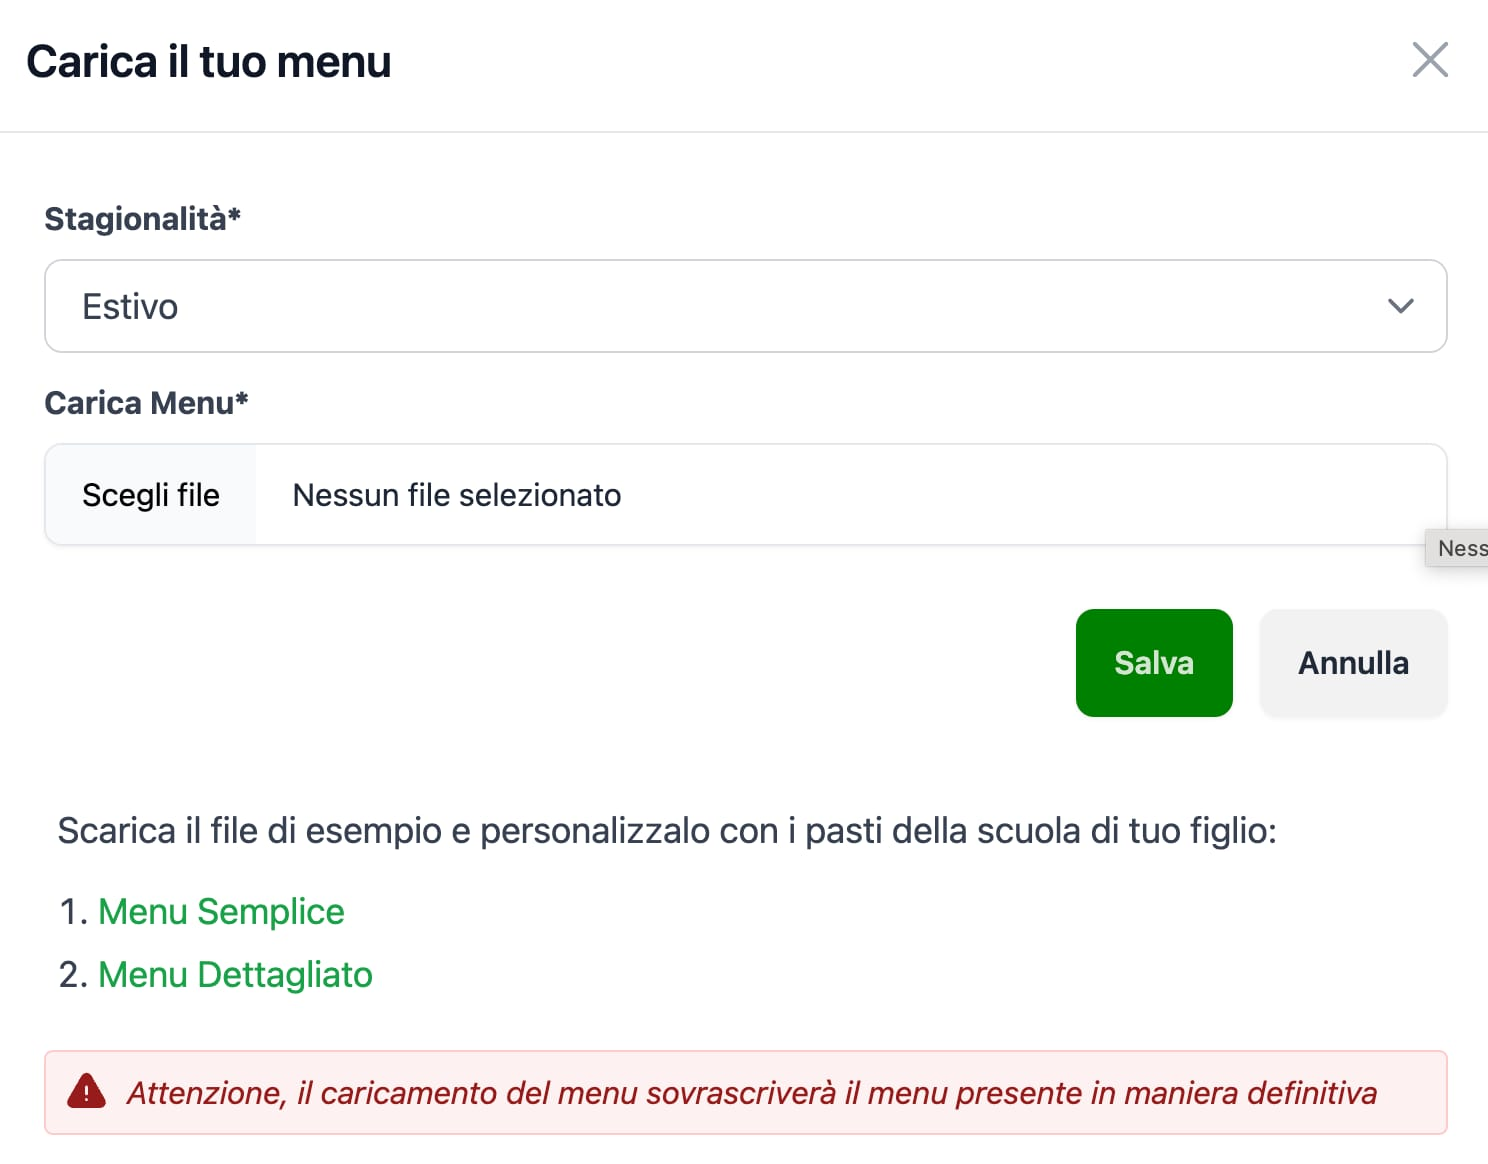
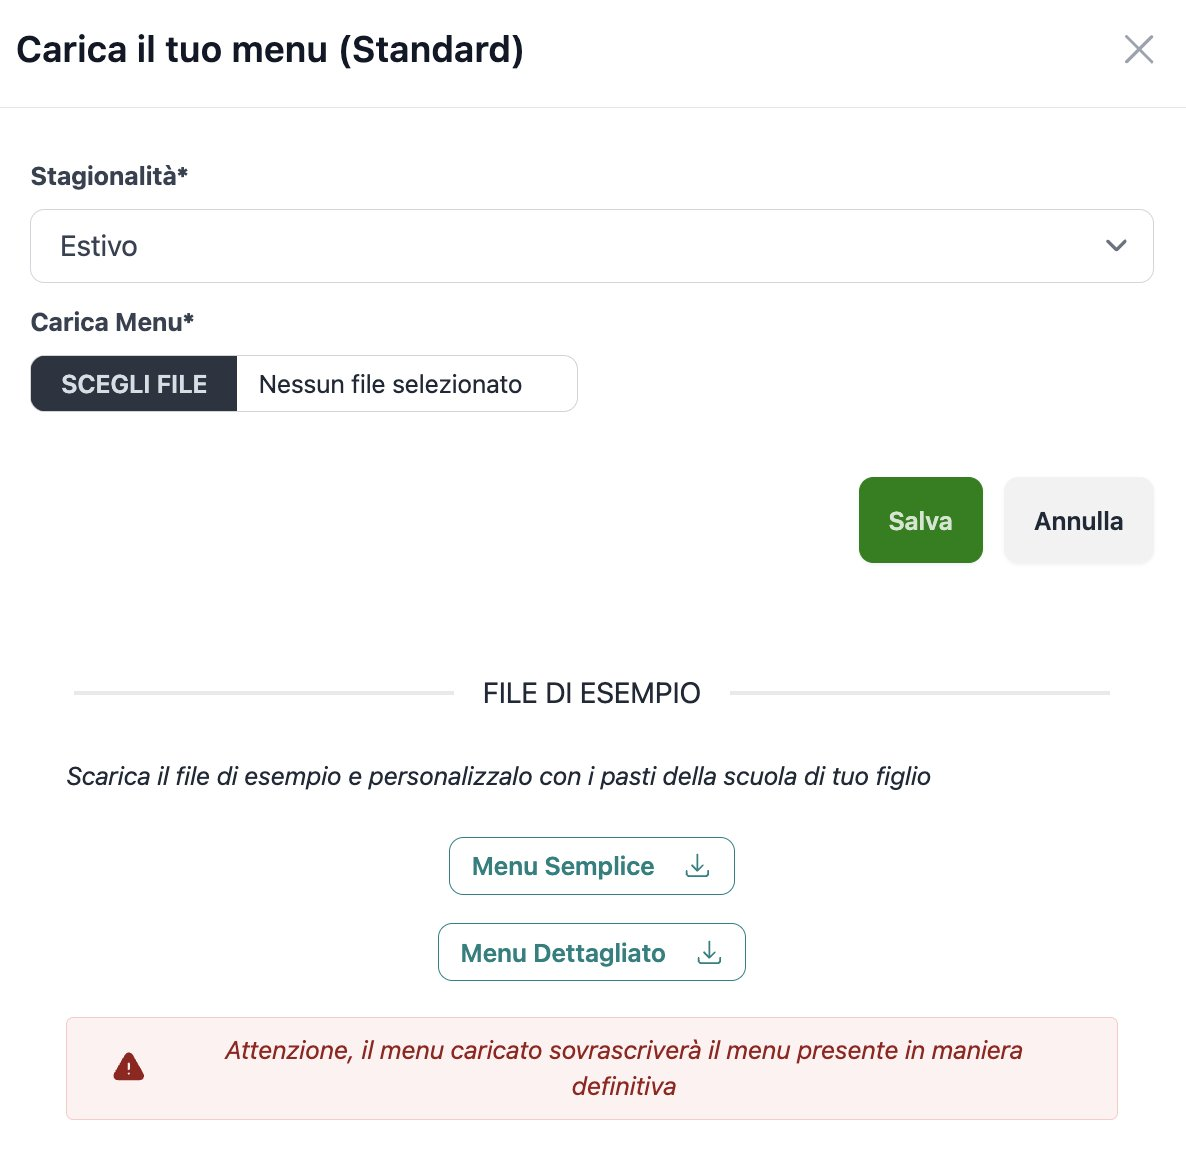
completed user_guide with images (for #110)

diff --git a/templates/pages/help.html b/templates/pages/help.html
@@ -6,28 +6,77 @@
 
 {% block content %}
     <section>
-        <div class="grid px-4 pt-8 pb-4 mx-auto max-w-screen-lg lg:gap-8 lg:pt-16 lg:pb-8 xl:gap-0">
+        <div class="grid px-4 pt-8 pb-4 mx-auto mb-4 max-w-screen-lg lg:gap-8 lg:pt-16 lg:pb-8 lg:mb-12 xl:gap-0">
             <h1 class="mb-4 text-2xl font-semibold tracking-tight text-center">Guida all'utilizzo</h1>
-            <article class="max-w-none prose prose-img:w-full lg:prose-img:w-2/3 lg:prose-img:mx-auto">
-                <h4>Impostazioni relative alla scuola</h4>
+            <article class="max-w-none prose prose-img:w-full prose-img:mx-auto sm:prose-img:w-2/3">
+                <h4>Sezione Scuola</h4>
                 <p>
-                    Quando crei il tuo utente verrai reindirizzato al tuo profilo dove creare la scuola. In questa maschera devi inserire il nome della scuola e la città (il nome della scuola viene usato per creare il link del menu giornaliero quindi è consigliabile non modificare questo parametro).
+                    Al primo accesso verrai reindirizzato alla pagina del tuo profilo dove potrai creare la scuola. In questa maschera devi inserire il nome della scuola e la città (la combinazione di questi due campi viene utilizzata per creare il link del menu giornaliero da poter condividere. È quindi è consigliabile scegliere in maniera accurata il valore di questi campi e non modificarli successivamente).
                 </p>
-                <img src="{% static 'img/help/maschera_crea_scuola.jpg' %}"
+                <figure>
+                    <img src="{% static 'img/help/maschera_crea_scuola.jpg' %}"
                      alt="Maschera Crea Scuola">
+                     <figcaption class="mt-2 text-sm text-center text-gray-500">1. Sezione scuola</figcaption>
+                </figure>
                 <p>
-                    Nel campo <b>Tipo di Menù</b> puoi selezionare <b>Semplice</b> (adatto a scuole dell'infanzia e asili con un campo menu unificato) oppure <b>Dettagliato</b> (per le altre scuole con i campi separati per primo, secondo, contorno e spuntino). Di solito i menu scolastici sono divisi in stagione Invernale e Primaverile. Nella sezione <b>Stagione</b> puoi scegliere se pasare automaticamente da un menu stagionale all'altro oppure selezionare manualmente il menu stagionale (se la tua scuola ad esempio non segue strettamente il calendario). Infine nel campo <b>Scarto</b> puoi selezionare un numero fra 0 e 3 per allineare la settimana 1 del menu inserito con quella effettivamente in scorso.
+                    Nel campo <strong>Tipo di Menù</strong> puoi selezionare <strong>Semplice</strong> (adatto a scuole dell'infanzia e asili con un campo menu unificato più spuntino e merenda) oppure <strong>Dettagliato</strong> (adatto alle scuole primarie e secondarie con i campi separati per primo, secondo, contorno, frutta e spuntino). Di solito i menu scolastici sono divisi in stagione Invernale e Primaverile. Nella sezione <strong>Stagione</strong> puoi scegliere se passare automaticamente da un menu stagionale all'altro oppure selezionare manualmente il menu stagionale (se la tua scuola ad esempio non segue strettamente il calendario). Infine nel campo <strong>Scarto</strong> puoi selezionare un numero fra 0 e 3 per allineare la settimana 1 del menu inserito con quella effettivamente in scorso. Se la tua scuola fornisce un menu annuale dove sono specificati i menu per ogni singolo giorno del calendario puoi spuntare la casella <strong>Menu Annuale</strong>. In questo caso non verranno considerati i campi <strong>Scarto</strong> e <strong>Stagione</strong>.
                 </p>
-                <h4>Sezione Menu</h4>
+                <h4 class="mt-8">Sezione Menu</h4>
                 <p>
-                    In questa sezione puoi inserire o modificare i singoli menù giornalieri selezionando il tasto modifica di fianco ad ogni settimana (contrassegnato da <b>A</b> nell'immagine seguente). Nella pagina seguente potrai inserire inserire i menù giornalieri oppure modificare quelli già inseriti. Se preferisci puoi utilizzare la funzione per caricare i menu in formato excel utilizzando il bottone <b>Carica Menu</b> contrassegnato da <b>B</b>.
+                    In questa sezione puoi inserire o modificare i singoli menù giornalieri selezionando il tasto modifica di fianco ad ogni settimana (contrassegnato da <strong>A</strong> nell'immagine 2). Nella pagina seguente potrai inserire inserire i menù giornalieri oppure modificare quelli già inseriti. Se preferisci puoi utilizzare la funzione per caricare i menu in formato excel utilizzando il bottone <strong>Carica Menu</strong> (contrassegnato da <strong>B</strong> nell'immagine 2). Se hai attivato i menu alternativi puoi selezionare il menu alternativo nel menu a tendina (contrassegnato da <strong>C</strong> nell'immagine 2). Verifica su quale menu stai lavorando verificando il badge di fianco al titolo della sezione (contrassegnato da <strong>D</strong> nell'immagine seguente).
                 </p>
-                <img src="{% static 'img/help/sezione_menu.jpg' %}" alt="Sezione Menu">
+                <figure>
+                    <img src="{% static 'img/help/sezione_menu.jpg' %}" alt="Sezione Menu">
+                    <figcaption class="mt-2 text-sm text-center text-gray-500">2. Sezione menu</figcaption>
+                </figure>
                 <p>
-                    Nella finestra che compare dopo aver cliccato sul bottone <b>Carica Menu</b> è possibile caricare in un unica operazione tutti i menu delle 4 settimane della stagione (che va selezionata nel menu a tendina sotto la voce <b>Stagionalità</b>). È possibile scaricare un file di esempio (diverso a seconda del tipo di menù scelto) da compilare con i menu che poi potrà essere caricato sul sito. Il caricamento del file sovrascriverà in maniera definitiva i menu già salvati.
+                    Se hai selezionato l'opzione <strong>Menu Annuale</strong> non sarà possibile modificare i singoli menu giornalieri (coming soon) ma dovrai modificarli nel file CSV e poi caricarlo tramite la funzione <strong>Carica Menu</strong>.
                 </p>
-                <img src="{% static 'img/help/carica_menu.jpg' %}"
-                     alt="Finestra Carica Menu">
+                <figure>
+                    <img src="{% static 'img/help/sezione_menu_annuale.jpg' %}"
+                        alt="Sezione Menu Annuale">
+                    <figcaption class="mt-2 text-sm text-center text-gray-500">3. Sezione menu annuale</figcaption>
+                </figure>
+                <p>
+                    Nella finestra che compare dopo aver cliccato sul bottone <strong>Carica Menu</strong> è possibile caricare in un unica operazione tutti i menu delle 4 settimane della stagione (che va selezionata nel menu a tendina sotto la voce <strong>Stagionalità</strong>, questa scelta non compare quando viene selezionato <strong>Menu Annuale</strong>). È possibile scaricare un file di esempio (diverso a seconda del tipo di menù scelto) da compilare con i menu che poi potrà essere caricato sul sito. Il caricamento del file sovrascriverà in maniera definitiva i menu già salvati.
+                </p>
+                    <figure>
+                        <img src="{% static 'img/help/carica_menu.jpg' %}"
+                         alt="Finestra Carica Menu">
+                        <figcaption class="mt-2 text-sm text-center text-gray-500">4. Finestra carica menu</figcaption>
+                    </figure>
+                <h4 class="mt-8">Sezione Account</h4>
+                <p>In questa sezione è possibile modificare il proprio indirizzo mail, ottenere una copia dei propri dati conservati sul nostro server (coming soon) e cancellare definitivamente il proprio account. E inoltre possibile leggere le segnalazioni ricevute dagli utenti relative al menu pubblicato (che vengono notificate via mail appena ricevute).</p>
+                    <figure>
+                        <img src="{% static 'img/help/sezione_account.jpg' %}"
+                            alt="Sezione Account">
+                        <figcaption class="mt-2 text-sm text-center text-gray-500">5. Sezione account</figcaption>
+                    </figure>
+                <p> È possibile rispondere a queste segnalazioni (<strong>A</strong> nell'immagine 6b) se chi le create ha fornito il suo consenso e il suo indirizzo mail. Una volta risposto alla segnalazione ed effettuato le eventuali correzioni richieste è possibile segnare le segnalazioni come completate (<strong>B</strong> nell'immagine 6b).</p>
+                <figure>
+                    <img src="{% static 'img/help/lista_menu_feedback.jpg' %}"
+                        alt="Lista Segnalazioni Ricevute">
+                    <figcaption class="mt-2 text-sm text-center text-gray-500">6a. Lista segnalazioni ricevute</figcaption>
+                </figure>
+                <figure>
+                    <img src="{% static 'img/help/dettaglio_menu_feedback.jpg' %}"
+                        alt="Finestra Dettaglio Segnalazione">
+                    <figcaption class="mt-2 text-sm text-center text-gray-500">6b. Dettaglio segnalazione</figcaption>
+                </figure>
+                <p>Per modificare il proprio indirizzo mail selezionare gestisci indirizzo mail, aggiungere il nuovo indirizzo mail, procedere alla verifica cliccando sul link inviato a quell'indirizzo, renderlo principale e successivamente eliminare quello vecchio. Da questo momento il login dovrà essere effettuato utilizzando il nuovo indirizzo mail fornito.</p>
+                <figure>
+                    <img src="{% static 'img/help/indirizzi_email.jpg' %}"
+                        alt="Gestione Email">
+                    <figcaption class="mt-2 text-sm text-center text-gray-500">7. Pagina gestione email</figcaption>
+                </figure>
+                <p>È infine possibile cancellare completamente il proprio account eliminando qualsiasi informazione inserita nel nostro database utilizzando la sezione <strong>Cancella dati e account</strong>. Attenzione, questa procedura è irreversibile quindi in caso prima di procedere scaricate i menu della vostra scuola.</p>
+                <figure>
+                    <img src="{% static 'img/help/cancella_account.jpg' %}"
+                        alt="Cancella Dati e Account">
+                    <figcaption class="mt-2 text-sm text-center text-gray-500">8. Cancella dati e account</figcaption>
+                </figure>
+                <h4 class="mt-8">Aiuto</h4>
+                <p>Per qualsiasi altro dubbio oppure per chiedere aiuto nella convalida del file CSV per i menu non esitare a contattarci attraverso la pagina <a href="{% url 'contacts:contact' %}" class="link link-primary">Contatti</a> del sito.</p>
             </article>
         </div>
     </section>

diff --git a/templates/upload-menu.html b/templates/upload-menu.html
@@ -30,12 +30,33 @@
                 x-on:click="openModal = false">Annulla</button>
     </div>
 </form>
-{% if not school.annual_menu %}
+{% if school.annual_menu %}
 <div class="m-12 mb-4">
     <div class="divider">FILE DI ESEMPIO</div>
 </div>
 <div class="py-3 px-5 my-4 mx-6">
-    <p class="mb-3 italic">Scarica il file di esempio e personalizzalo con i pasti della scuola di tuo figlio</p>
+    <p class="mb-6 text-sm italic">Scarica il file di esempio e personalizzalo con i pasti della scuola di tuo figlio. Attenzione ad aggiornare correttamente i valori del campo data con il formato DD/MM/AAAA.</p>
+    <ul class="space-y-4 text-center">
+        <li>
+            <a href="{% static 'files/EsempioMenuAnnuale.csv' %}"
+               class="inline-flex items-center btn btn-secondary btn-outline btn-sm"
+               download>
+                Menu Annuale
+                {% heroicon_solid 'arrow-down-tray' class="size-4 ms-2" %}
+            </a>
+        </li>
+    </ul>
+    <div class="flex items-center py-2 px-6 m-auto mt-5 text-center text-red-800 bg-red-50 rounded border border-red-200">
+        {% heroicon_solid 'exclamation-triangle' class="size-5 me-2 lg:me-4" %}
+        <span class="text-sm italic">Attenzione, il menu caricato sovrascriverà il menu presente in maniera definitiva</span>
+    </div>
+</div>
+{% else %}
+<div class="m-12 mb-4">
+    <div class="divider">FILE DI ESEMPIO</div>
+</div>
+<div class="py-3 px-5 my-4 mx-6">
+    <p class="mb-6 text-sm italic">Scarica il file di esempio e personalizzalo con i pasti della scuola di tuo figlio</p>
     <ul class="space-y-4 text-center">
         <li>
             <a href="{% static 'files/EsempioMenuSemplice.csv' %}"

diff --git a/templates/partials/messages.html b/templates/partials/messages.html
@@ -2,7 +2,7 @@
 {% if messages %}
     <div class="toast toast-top toast-center">
         {% for message in messages %}
-            <div class="flex items-center p-4 w-full max-w-md rounded-lg border-2 shadow md:max-w-lg text-pretty text-base-content bg-base-100 border-base-300 md:text-nowrap"
+            <div class="flex items-center p-4 w-full max-w-md rounded-lg border-2 shadow md:max-w-xl text-pretty text-base-content bg-base-100 border-base-300 md:text-nowrap"
                  role="alert"
                  x-cloak
                  x-data="{ show: true }"
